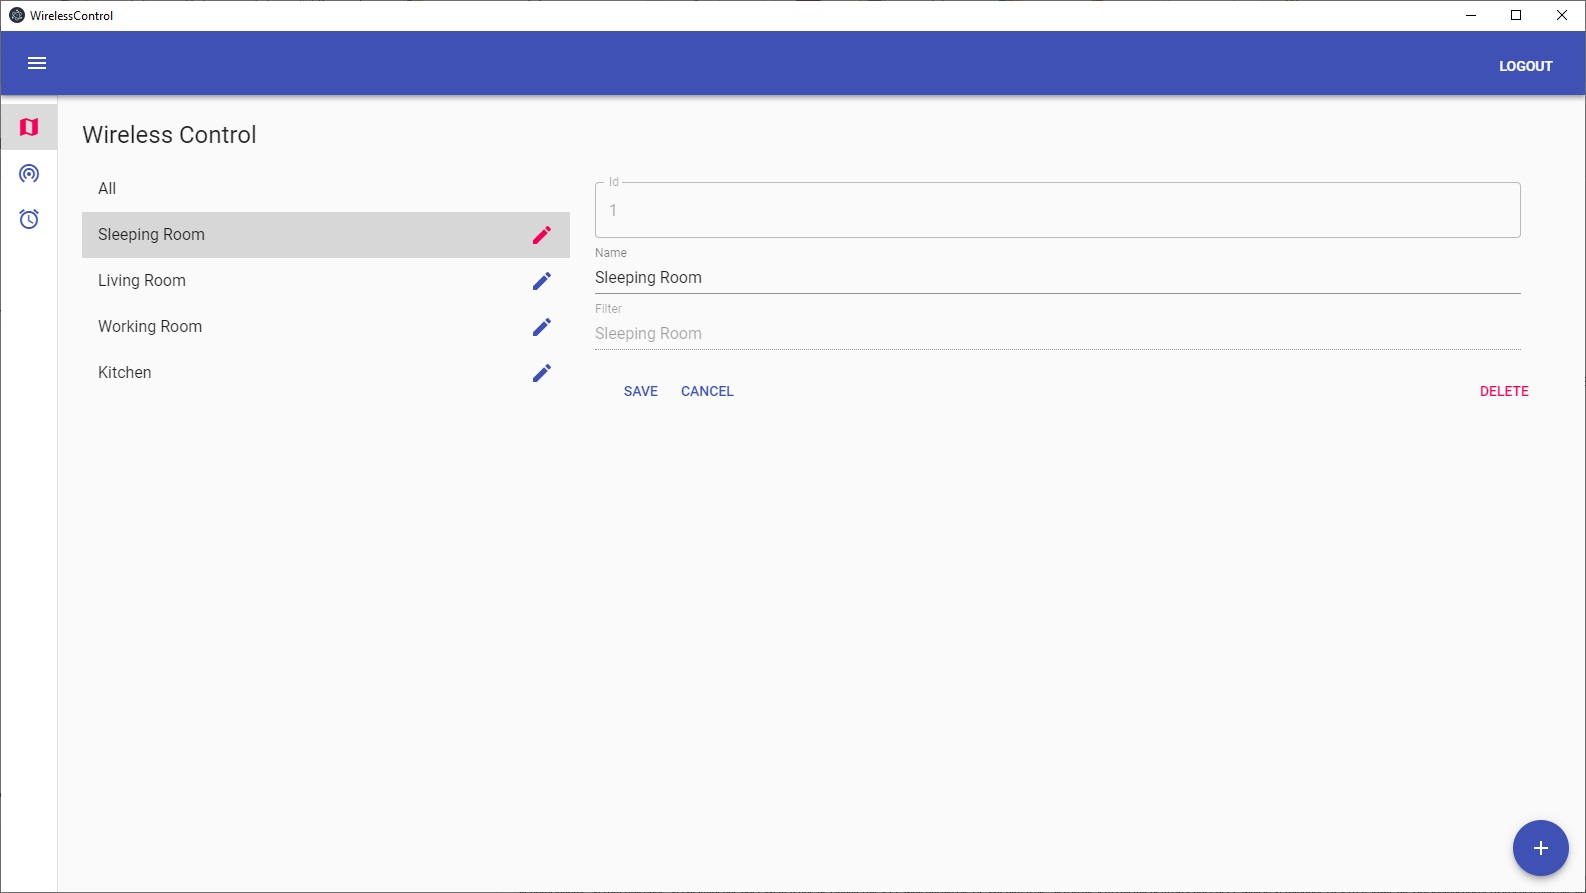
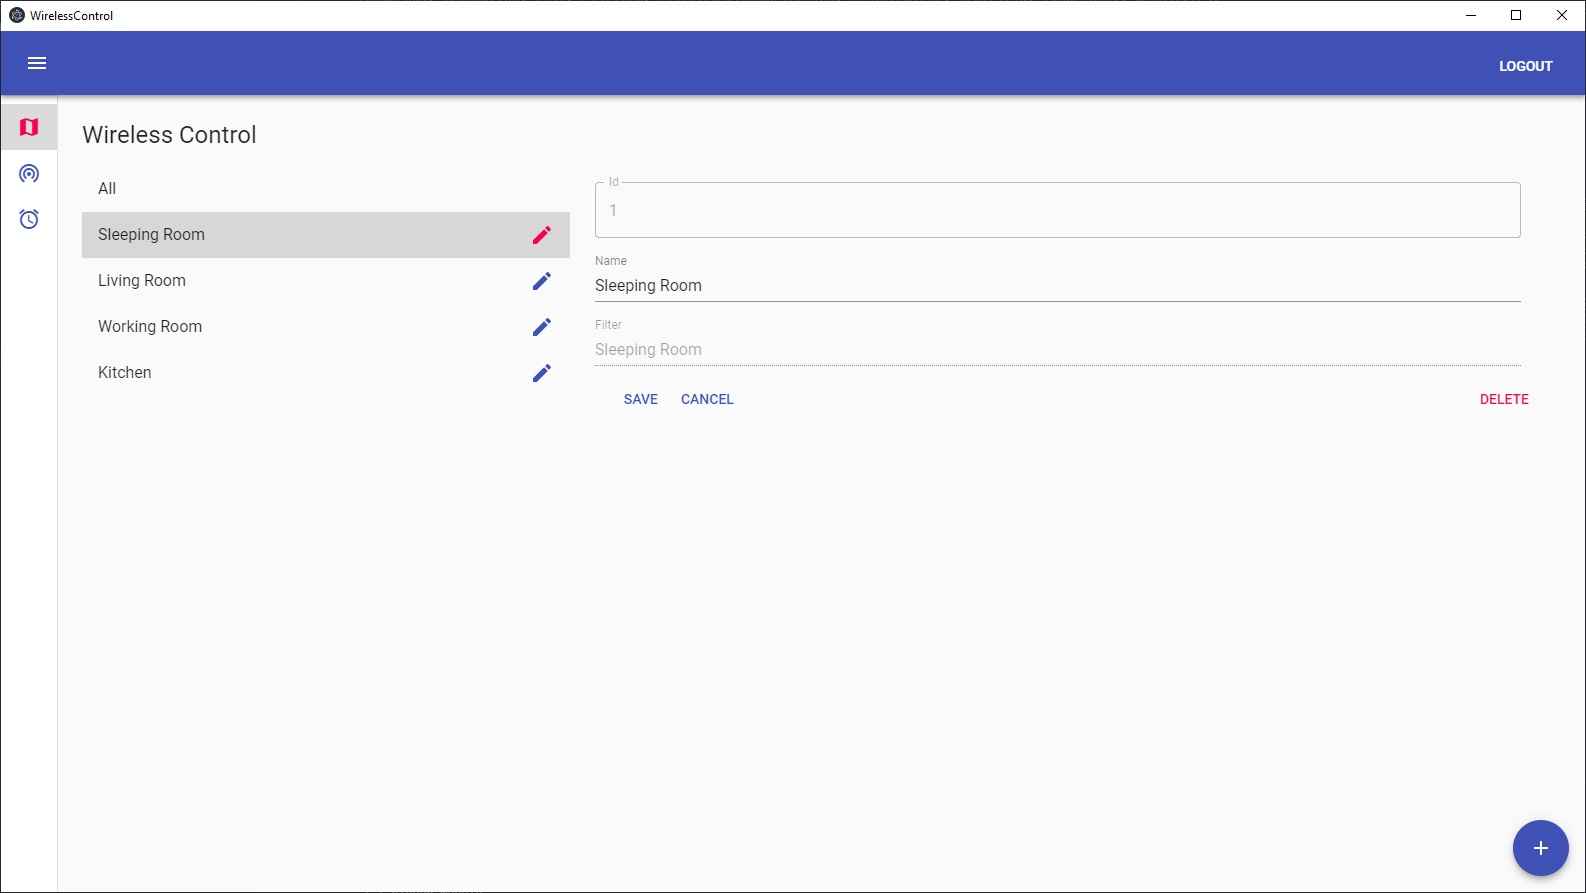
fixes layout for areas, updates screenshots

diff --git a/src/components/Areas/Areas.tsx b/src/components/Areas/Areas.tsx
@@ -86,13 +86,13 @@ class Areas extends React.Component<IAreasProps, any> {
                 <div className={this.props.classes.root}>
                     <FormControl fullWidth onSubmit={this.handleSubmit} className={this.props.classes.formControl}>
                         <FormGroup>
-                            <FormControlLabel label="" control={idInput} />
+                            <FormControlLabel label="" control={<div className="wc-full-width wc-margin-bottom-1-rem">{idInput}</div>} />
                         </FormGroup>
                         <FormGroup>
-                            <FormControlLabel label="" control={nameInput} />
+                            <FormControlLabel label="" control={<div className="wc-full-width wc-margin-bottom-1-rem">{nameInput}</div>} />
                         </FormGroup>
                         <FormGroup>
-                            <FormControlLabel label="" control={filterInput} />
+                            <FormControlLabel label="" control={<div className="wc-full-width">{filterInput}</div>} />
                         </FormGroup>
                         <div className="wc-button-container">
                             {submitButton}
